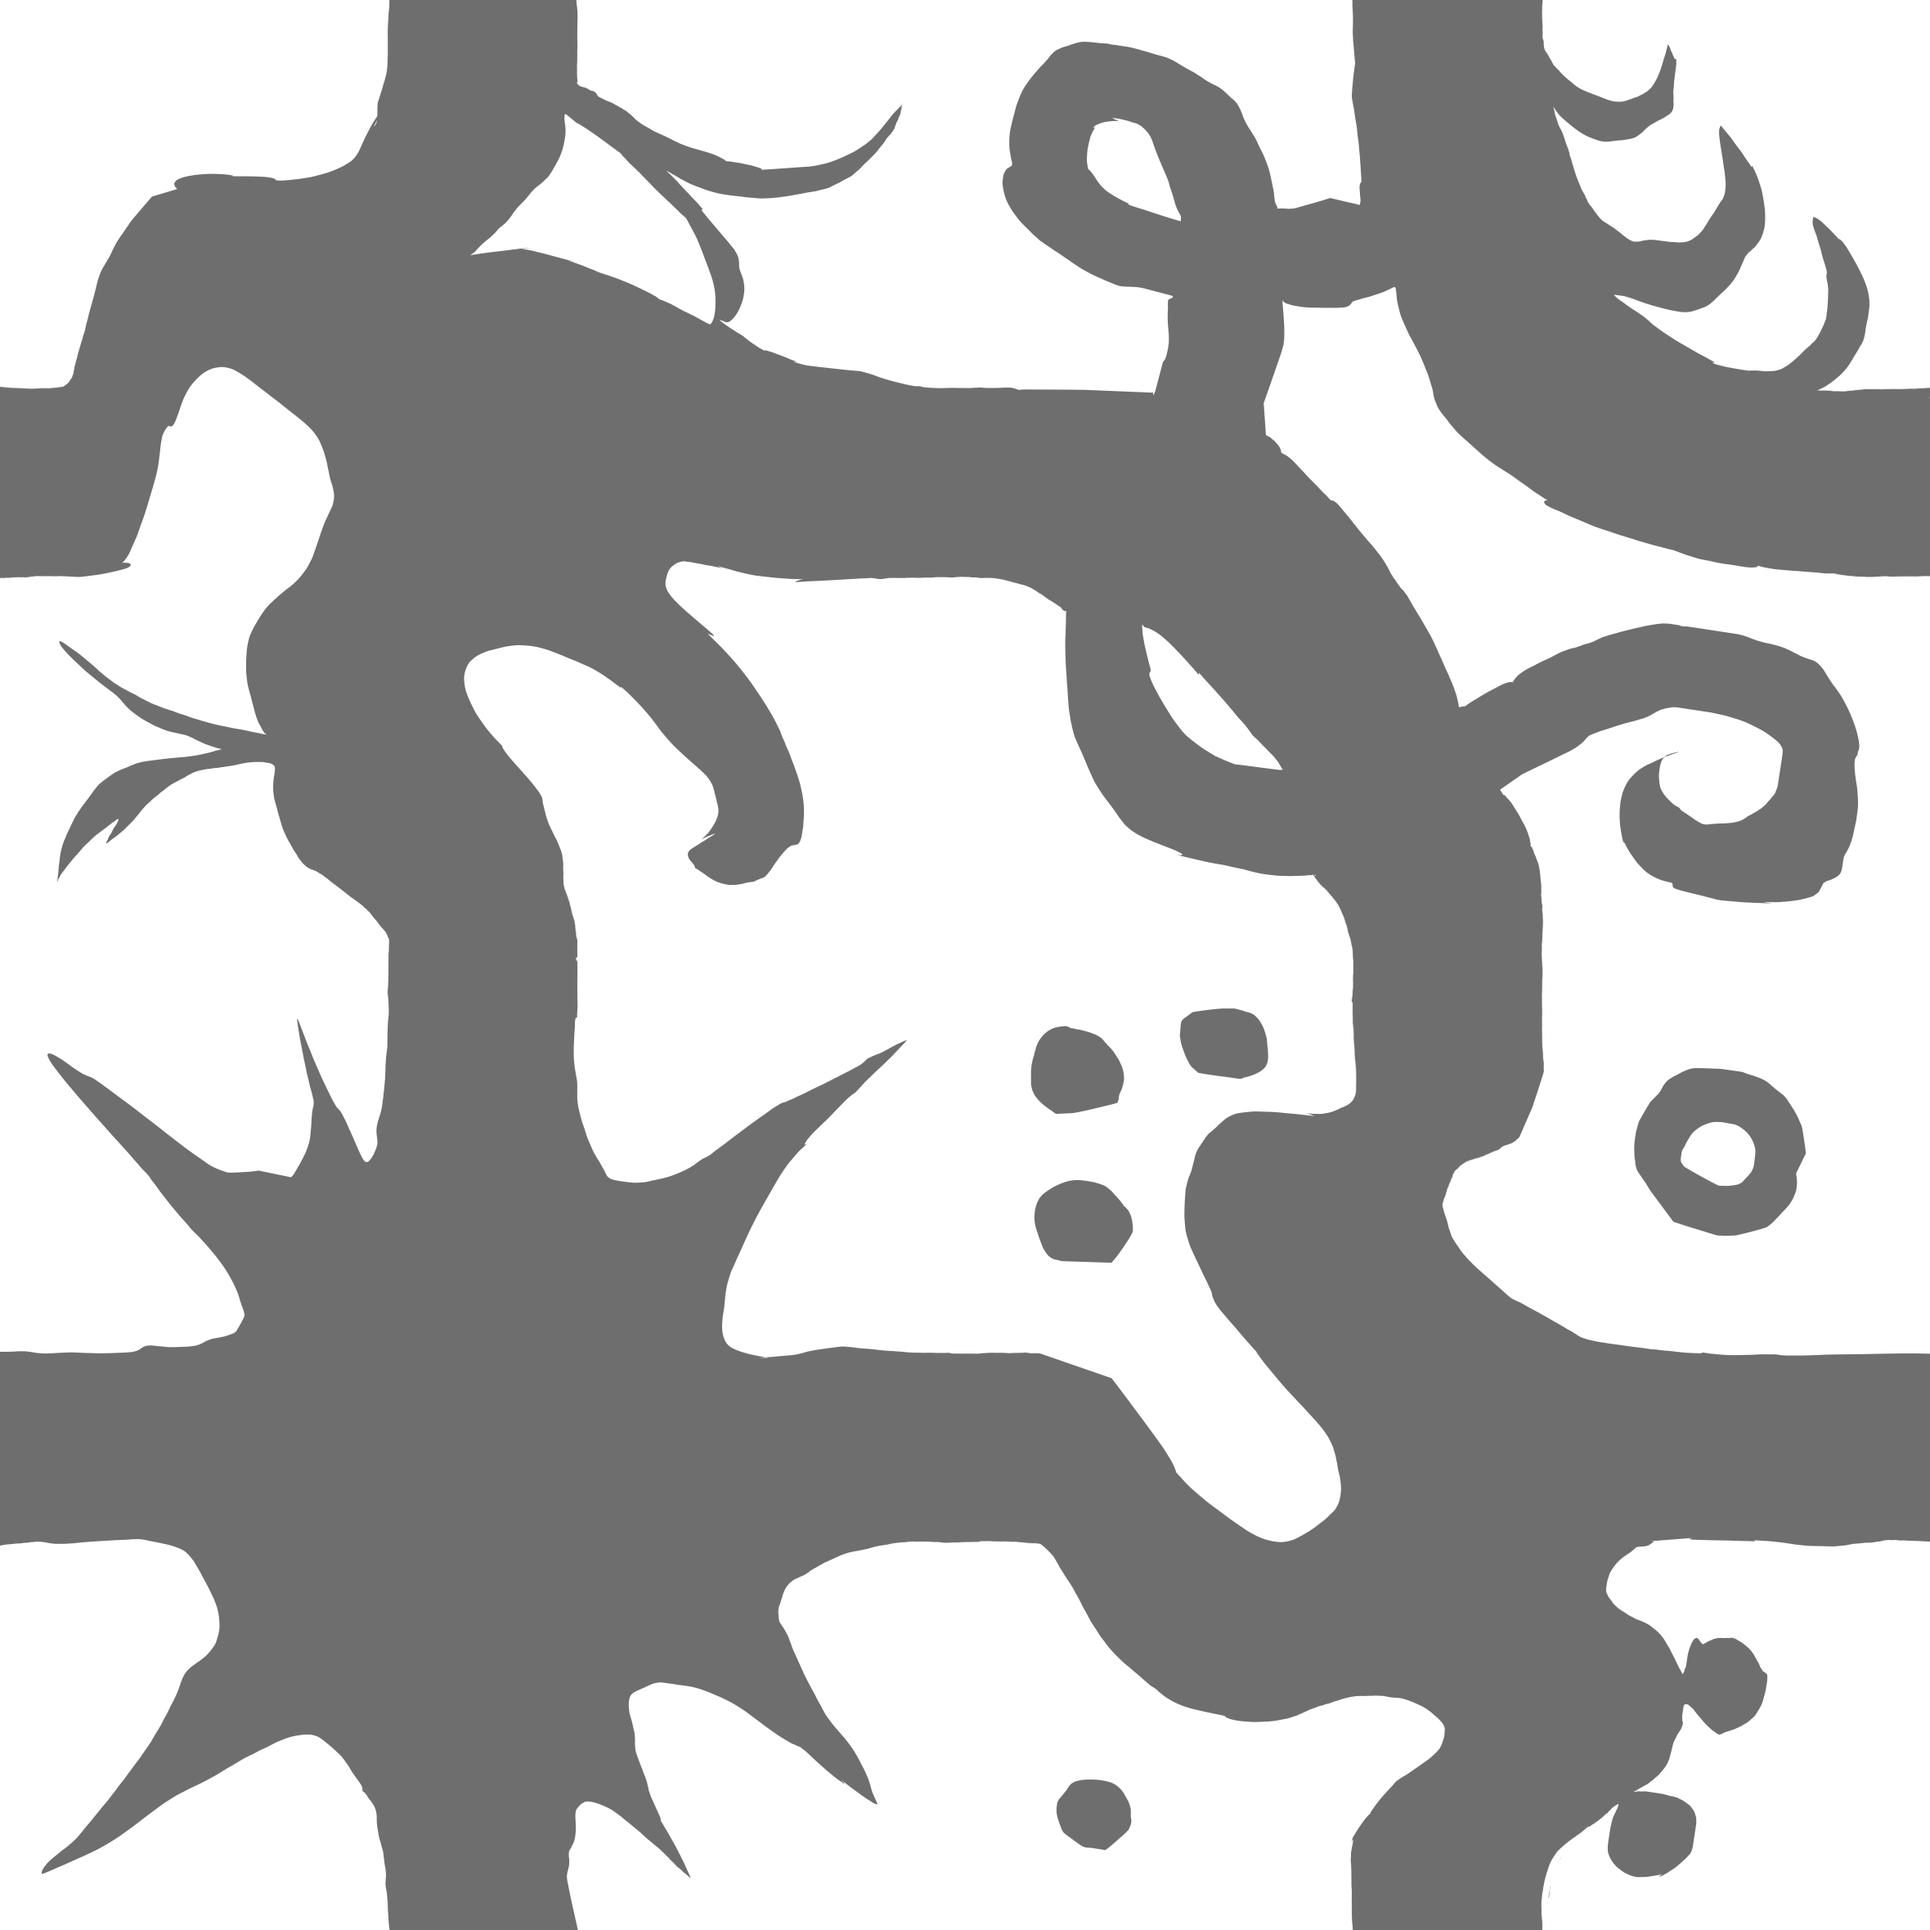
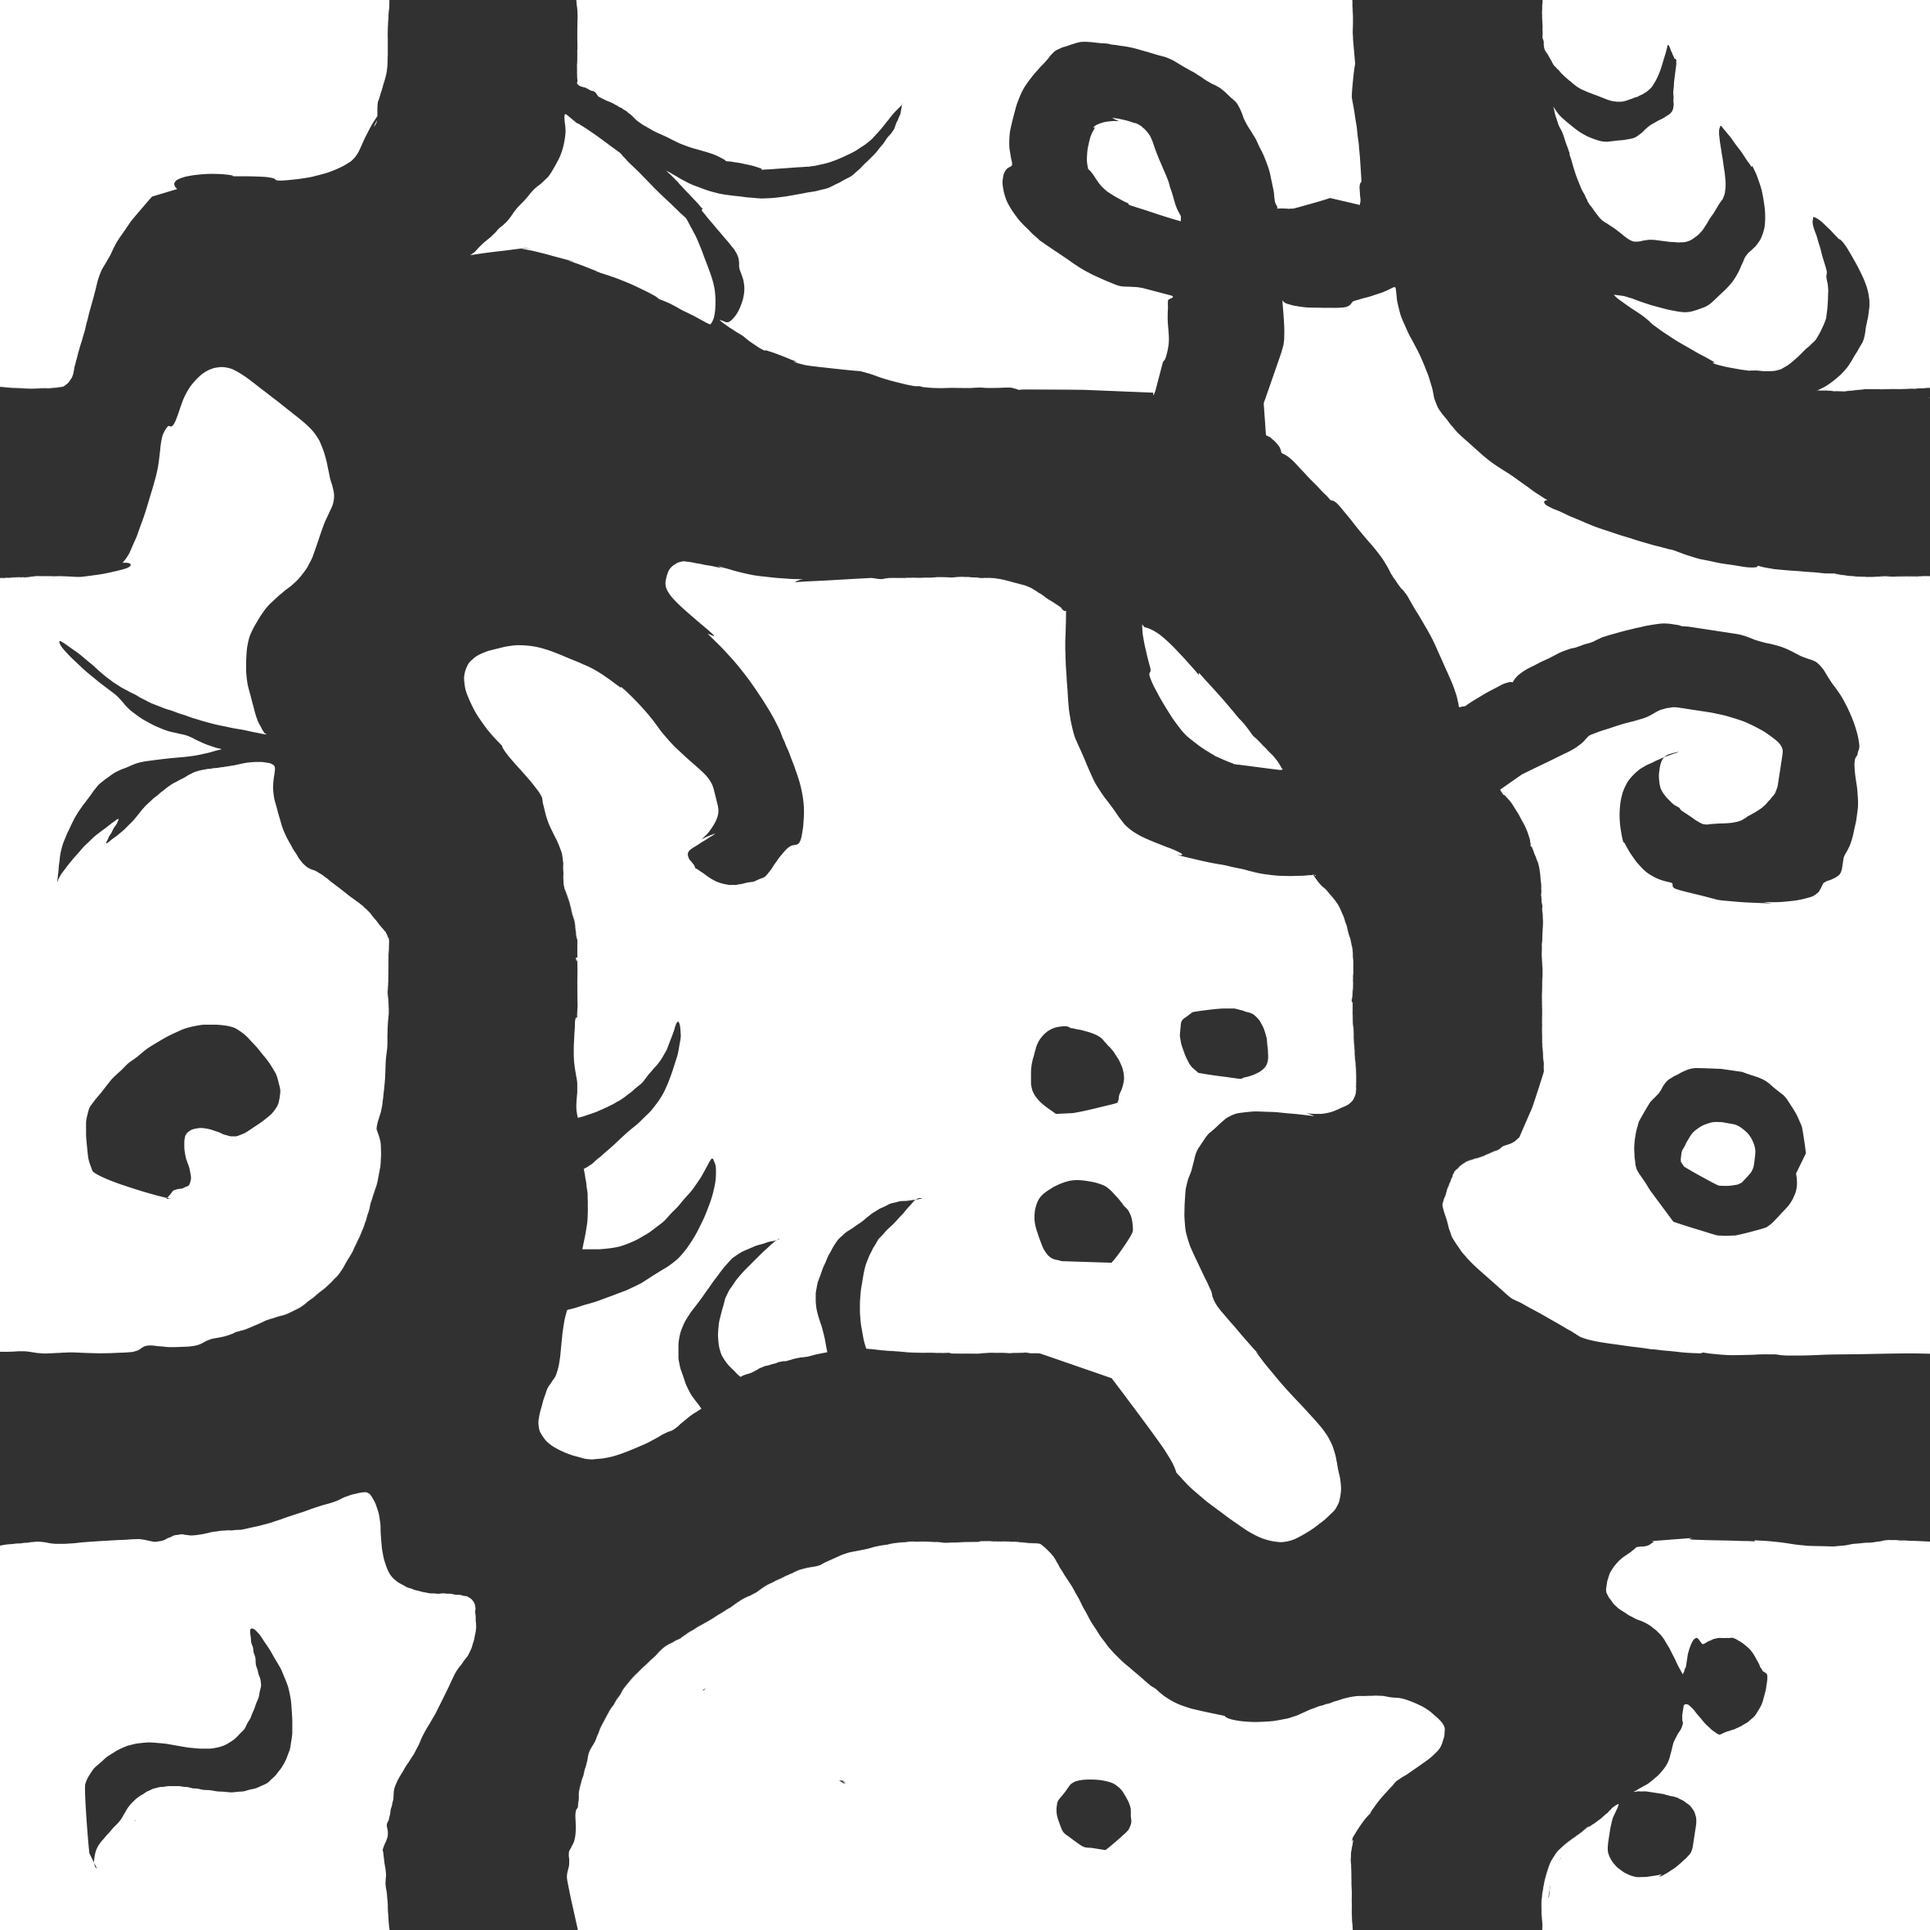
change tilemap

diff --git a/src/main/web/shrooms_shell.html b/src/main/web/shrooms_shell.html
@@ -298,10 +298,10 @@
     const BG_TILE_PATTERN_COLUMNS = 8;
     const BG_TILE_PATTERN_ROWS = 8;
     const BG_TILE_PATTERN = [
-      0, 1, 2, 3, 1, 0, 3, 2,
-      2, 3, 0, 1, 3, 2, 1, 0,
-      1, 0, 3, 2, 0, 1, 2, 3,
-      1, 2, 3, 0, 2, 3, 0, 1,
+      0, 1, 2, 3, 1, 2, 3, 2,
+      2, 3, 0, 1, 3, 0, 1, 0,
+      1, 0, 3, 2, 0, 2, 3, 2,
+      1, 2, 3, 0, 1, 3, 0, 1,
       3, 3, 1, 2, 0, 1, 3, 2,
       0, 1, 2, 3, 1, 0, 0, 1,
       2, 3, 0, 1, 3, 2, 1, 0,
